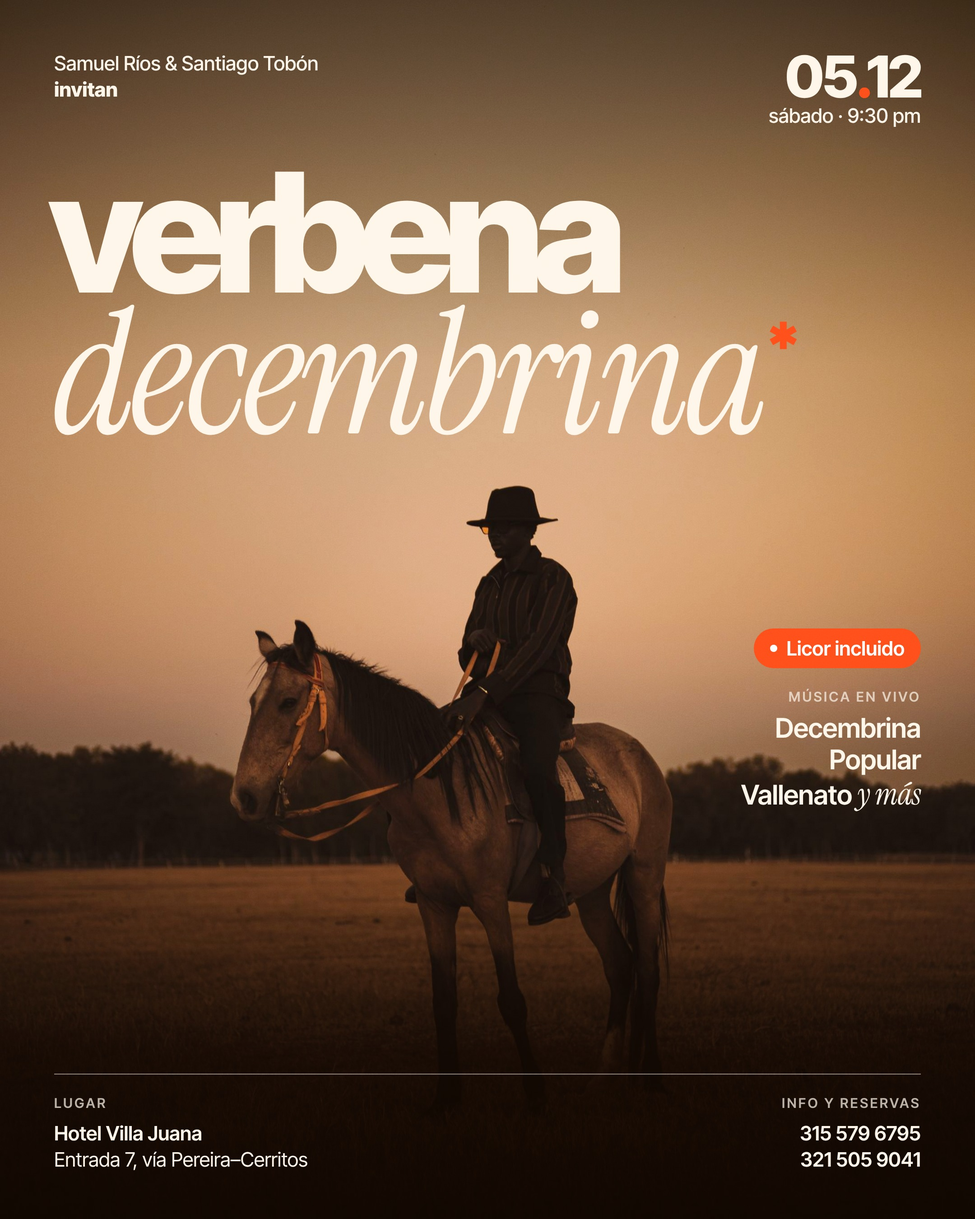
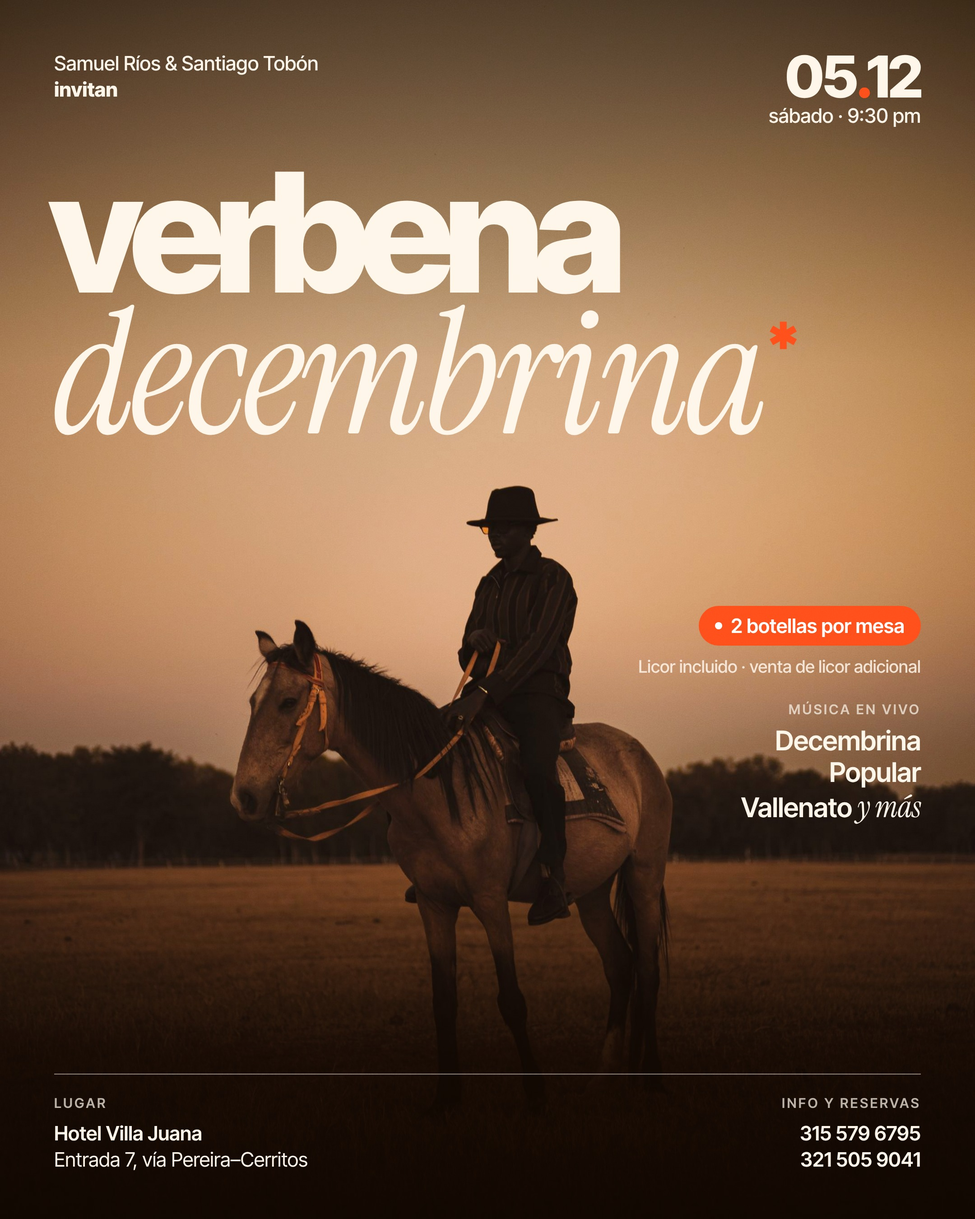
Flyer campo: 2 botellas por mesa y venta de licor adicional
Claude-Session: https://claude.ai/code/session_01HyDsnrwKU2hjLzueFvcAb9

Changed region(s): [[0.6514, 0.4978, 0.9616, 0.6844]]

diff --git a/flyers/verbena-decembrina/v3-campo/flyer.html b/flyers/verbena-decembrina/v3-campo/flyer.html
@@ -23,8 +23,9 @@ h1{margin-top:40px;font-weight:800;font-size:184px;line-height:.82;letter-spacin
 h1 em{display:block;font-family:'Instrument Serif',serif;font-style:italic;font-weight:400;letter-spacing:-.025em;font-size:192px;line-height:.86;margin-left:4px}
 h1 sup{font-family:'Inter Tight';font-style:normal;font-weight:600;font-size:40px;color:var(--acc);vertical-align:top;position:relative;top:22px;margin-left:6px;letter-spacing:0}
 
-.side{position:absolute;right:0;top:640px;text-align:right}
+.side{position:absolute;right:0;top:615px;text-align:right}
 .tag{display:inline-flex;align-items:center;gap:10px;background:var(--acc);color:#fff;font-weight:600;font-size:22px;padding:9px 18px;border-radius:999px;margin-bottom:22px}
+.extra{font-size:19px;font-weight:500;color:rgba(255,246,234,.85);margin:-10px 0 26px}
 .tag i{width:8px;height:8px;border-radius:50%;background:#fff}
 .side h3,.grid h3{font-size:15px;font-weight:600;letter-spacing:.14em;text-transform:uppercase;color:rgba(255,246,234,.7);margin-bottom:8px}
 .side p{font-size:30px;font-weight:600;line-height:1.18;letter-spacing:-.01em}
@@ -47,7 +48,8 @@ h1 sup{font-family:'Inter Tight';font-style:normal;font-weight:600;font-size:40p
     <h1>verbena<em>decembrina<sup>✱</sup></em></h1>
 
     <div class="side">
-      <div class="tag"><i></i>Licor incluido</div>
+      <div class="tag"><i></i>2 botellas por mesa</div>
+      <div class="extra">Licor incluido · venta de licor adicional</div>
       <h3>Música en vivo</h3>
       <p>Decembrina<br>Popular<br>Vallenato <span>y más</span></p>
     </div>
